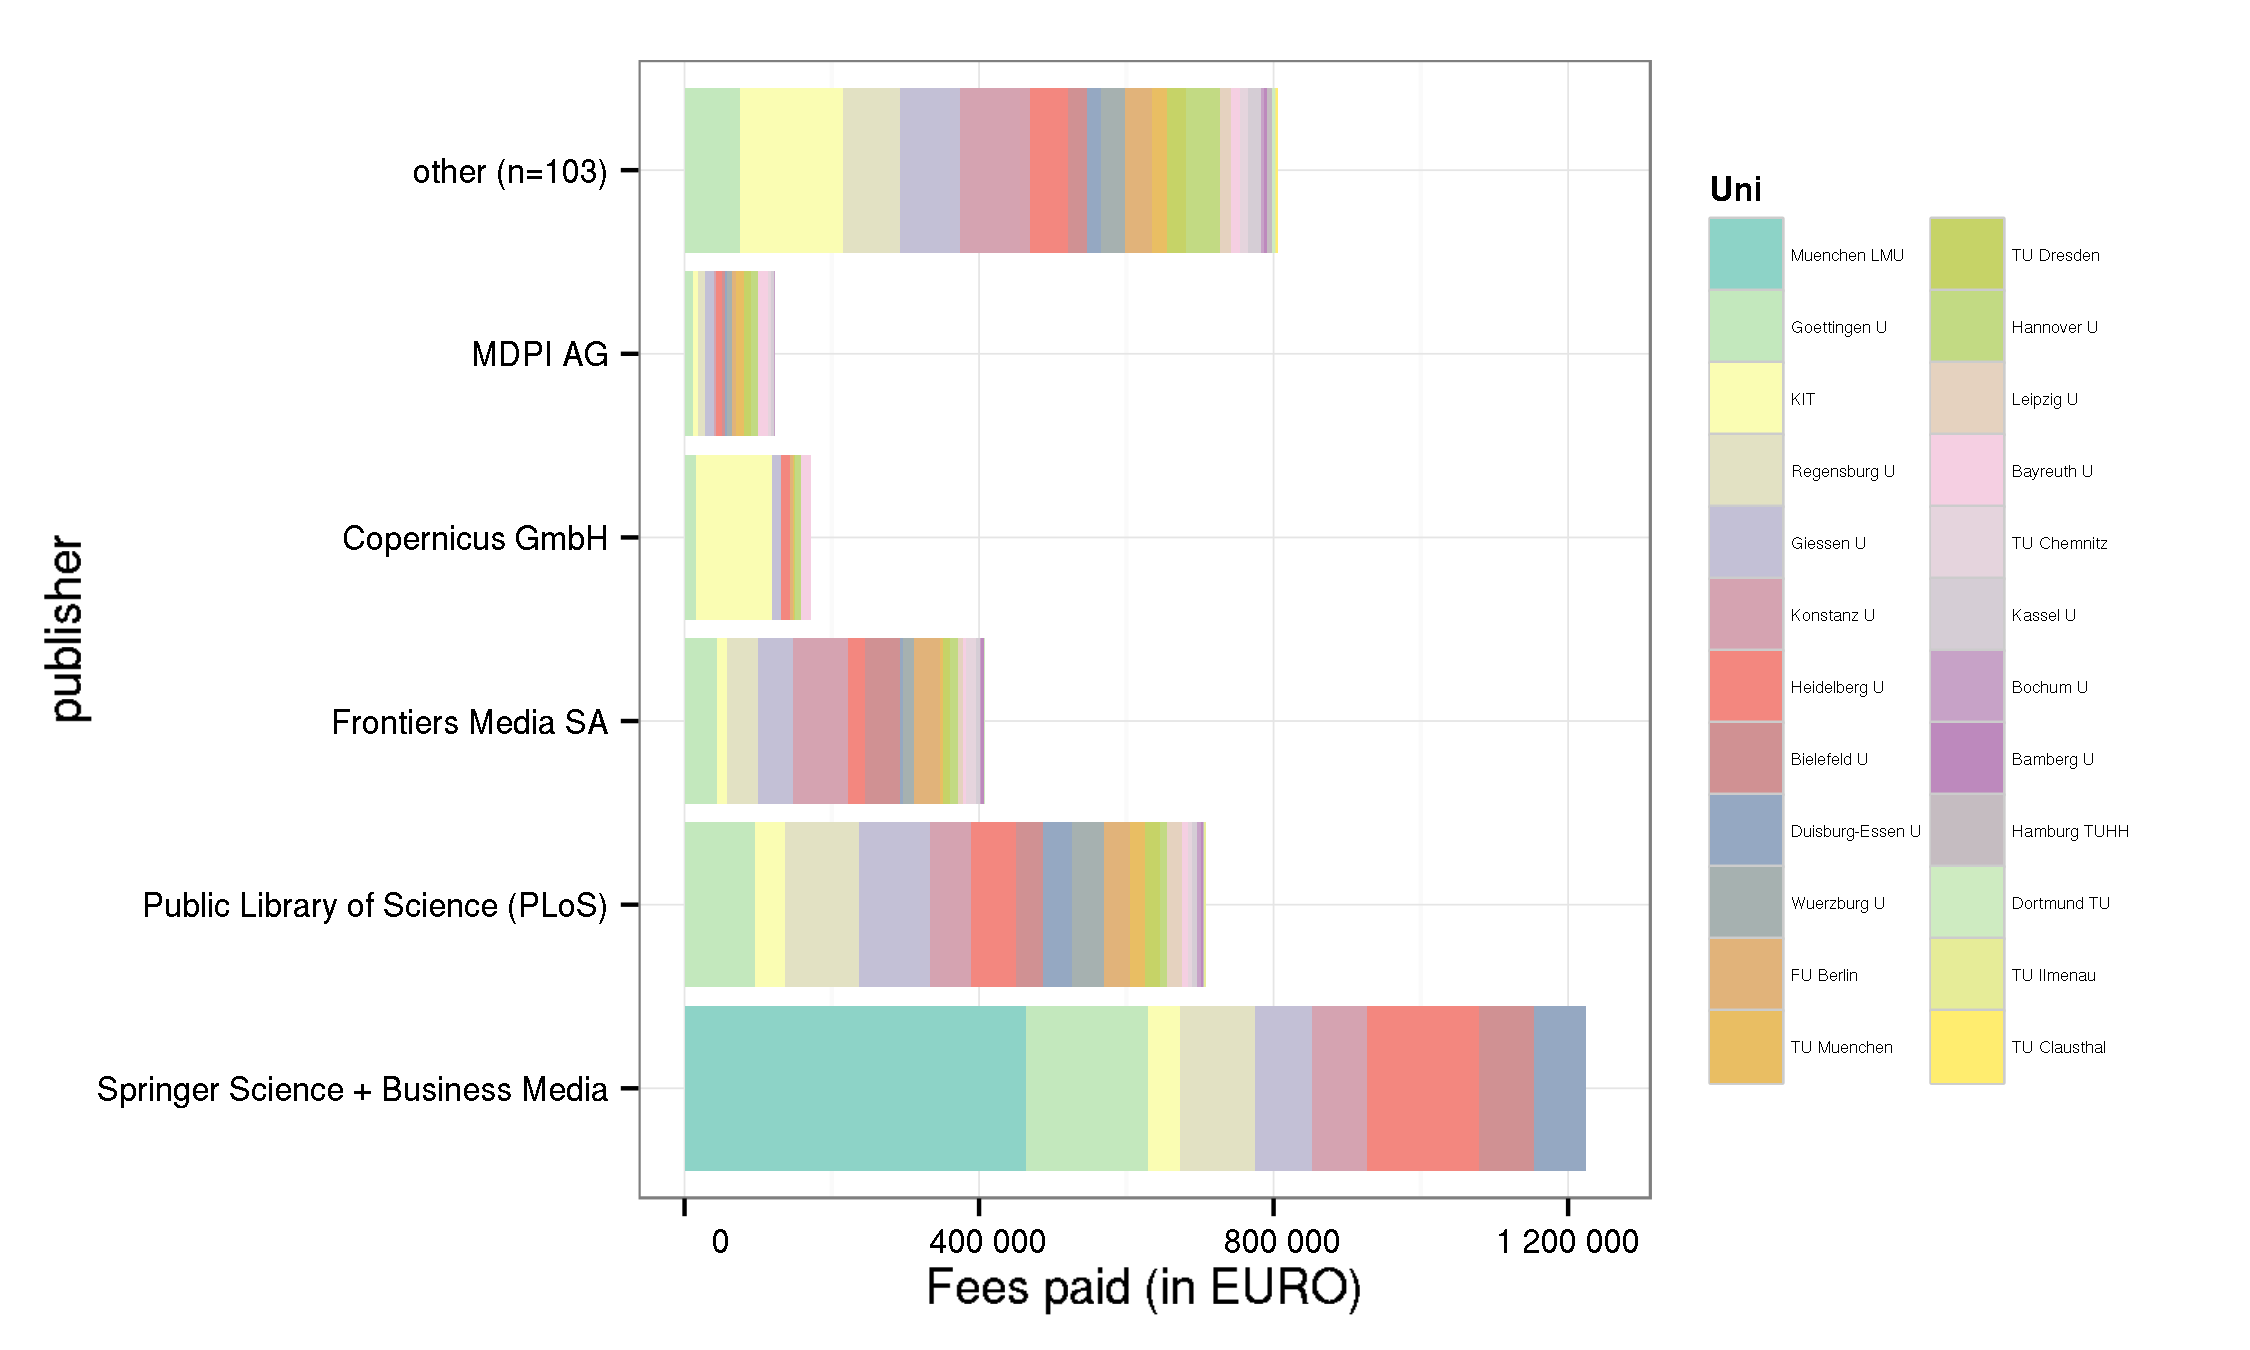
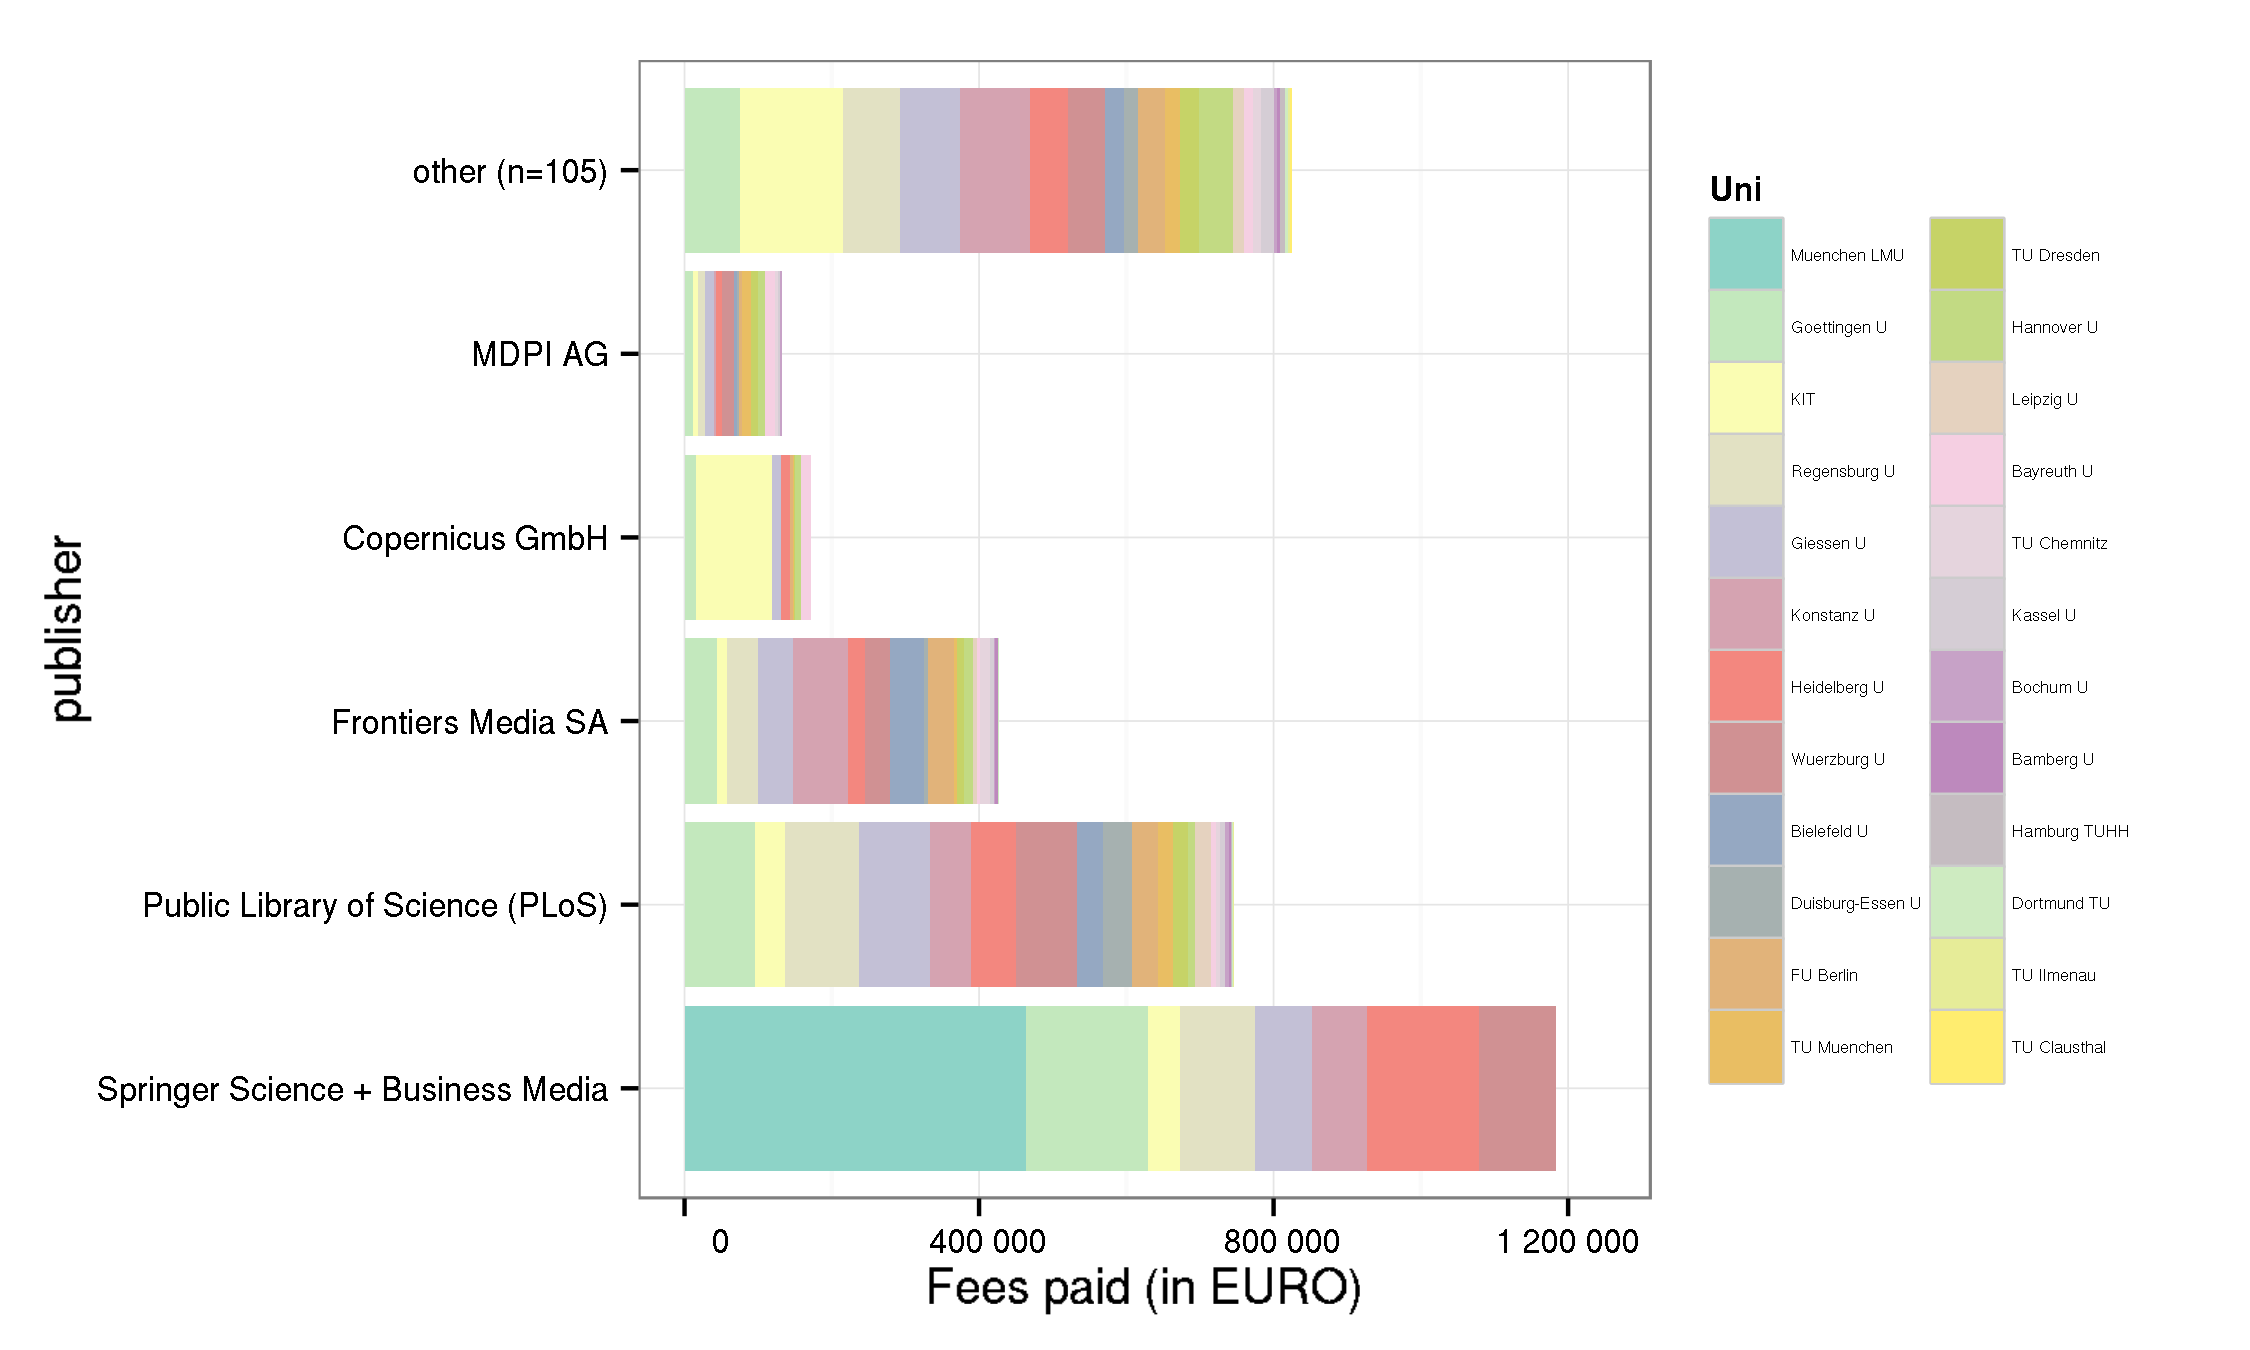
Added Wuerzburg U 2015 APC data

diff --git a/README.md b/README.md
@@ -60,13 +60,13 @@ ation/library)
 
 Information on both open access journal articles and open access publication of articles in toll-access journals ("hybrid") are provided.
 
-In total,  7 375 239 € for  5 803 articles were paid by the participating unviversities. Average  fee is 1 270.9 € and the median 1 203 €.
+In total,  7 514 747 € for  5 898 articles were paid by the participating unviversities. Average  fee is 1 274.1 € and the median 1 203 €.
 
 ### Open Access Journals
 
 
 
-At the moment, the dataset releases information on 5 750 articles in open access journals which charge publication fees. Total expenditure amounts to  7 287 397 €. Average  fee is 1 267.4 € and the median 1 201 €.
+At the moment, the dataset releases information on 5 845 articles in open access journals which charge publication fees. Total expenditure amounts to  7 426 905 €. Average  fee is 1 270.6 € and the median 1 203 €.
 
 View dataset on [GitHub](https://github.com/OpenAPC/openapc-de/blob/master/data/apc_de.csv).
 
@@ -101,7 +101,7 @@ View dataset on [GitHub](https://github.com/OpenAPC/openapc-de/blob/master/data/
 |TU Dresden                                  |       78|             96046|          1231|   1242|
 |TU Ilmenau                                  |        4|              4043|          1011|   1201|
 |TU Muenchen                                 |      103|            123054|          1195|   1269|
-|Wuerzburg U                                 |      112|            147036|          1313|   1271|
+|Wuerzburg U                                 |      207|            286543|          1384|   1447|
 
 ### Hybrid articles
 
